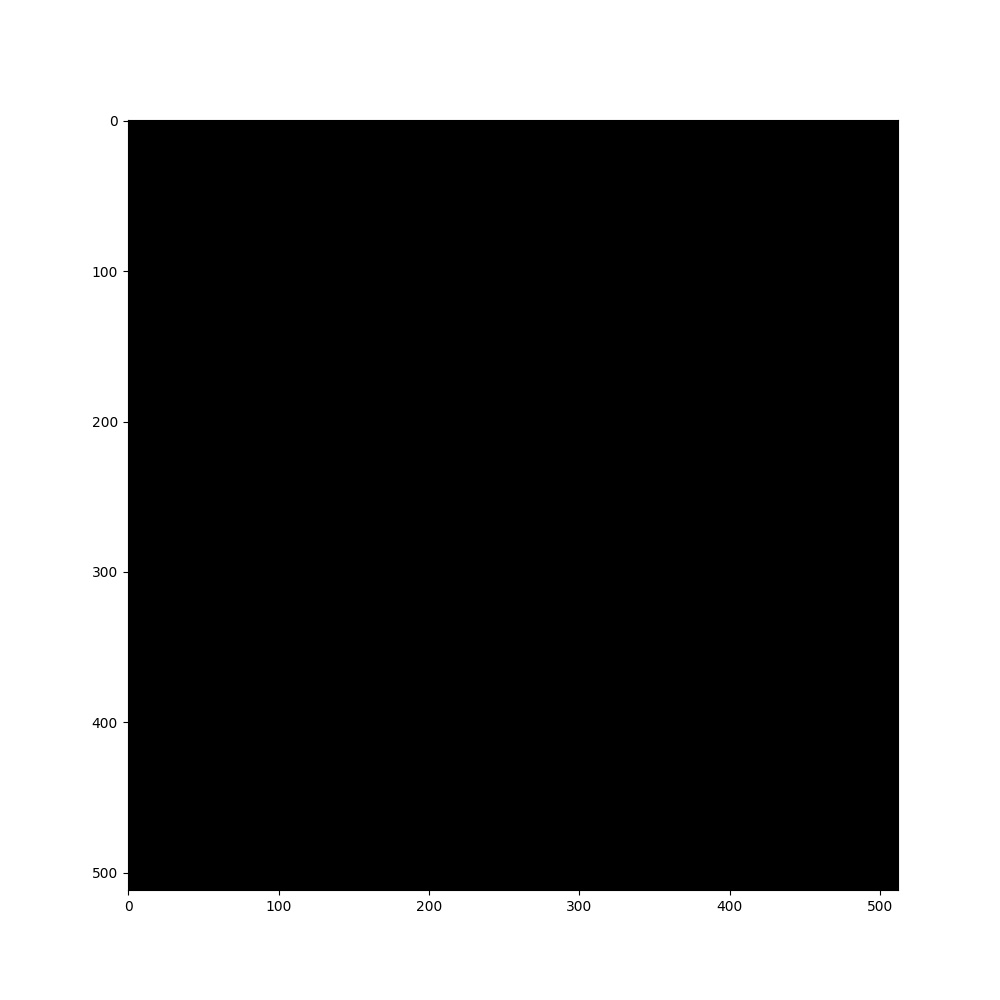
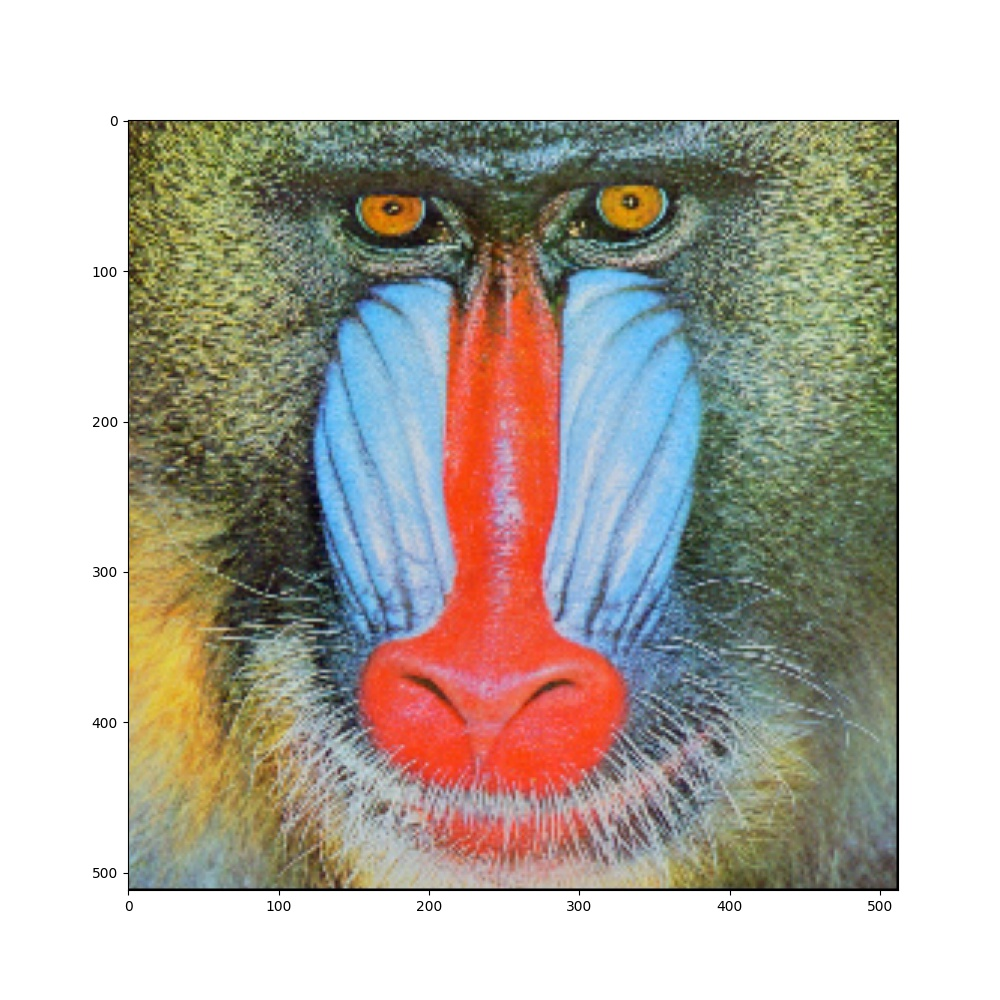
[+] ADD quadratic_threading.py

diff --git a/PyCharm/quadratic_threading.py b/PyCharm/quadratic_threading.py
@@ -1,0 +1,59 @@
+import matplotlib.pyplot as plt
+import multiprocessing as mp
+import threading as th
+import numpy as np
+
+import show
+
+img = plt.imread("../img/mandrill.jpg")
+
+# Ширина и длина
+n = img.shape[0]
+m = img.shape[1]
+
+
+def cut(img: np.array):
+    img1 = img.copy()
+    for i in range(n):
+        for j in range(m):
+            if (i % 2 != 0) or (j % 2 != 0):
+                img1[i][j] = 0
+    return img1
+
+
+img_cutted = cut(img)
+
+
+# # TODO переделать функцию для мультипроцессинга
+# Функция, с заранее известными коэффициентами
+def u(u_j: np.array, u_j1: np.array):
+    array = np.abs(0.5 * u_j + 0.5 * u_j1)
+    return np.where(array > 255, 255, array)
+
+
+# # TODO Исправить индексы
+#   восстанавливаем строки
+def quadratic_spline_row():
+        for i in range(0, n):
+            for j in range(1, m - 1, 2):
+                img_cutted[i, j] = u(img_cutted[i][j - 1], img_cutted[i][j + 1])
+
+
+#   восстанавливаем столбцы
+def quadratic_spline_column():
+        for j in range(0, m):
+            for i in range(1, n - 1, 2):
+                img_cutted[i][j] = u(img_cutted[i - 1][j], img_cutted[i + 1][j])
+
+
+def process_quadratic():
+    p1 = th.Thread(target=quadratic_spline_row, args=[])
+    p2 = th.Thread(target=quadratic_spline_column, args=[])
+
+    p1.start()
+    p1.join()
+
+    p2.start()
+    p2.join()
+
+    show.show_one(img_cutted, 'quadratic_threading')
